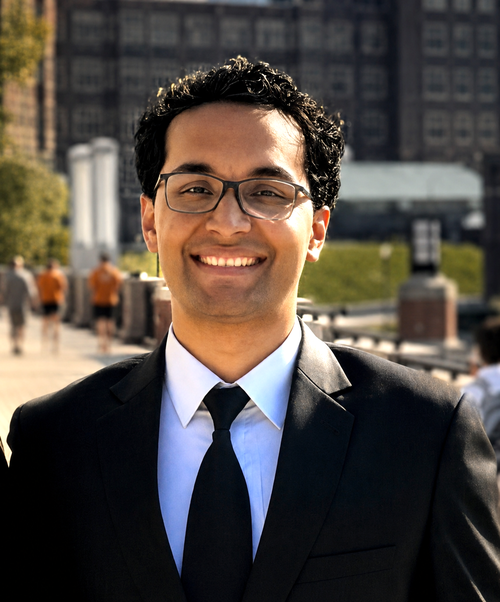
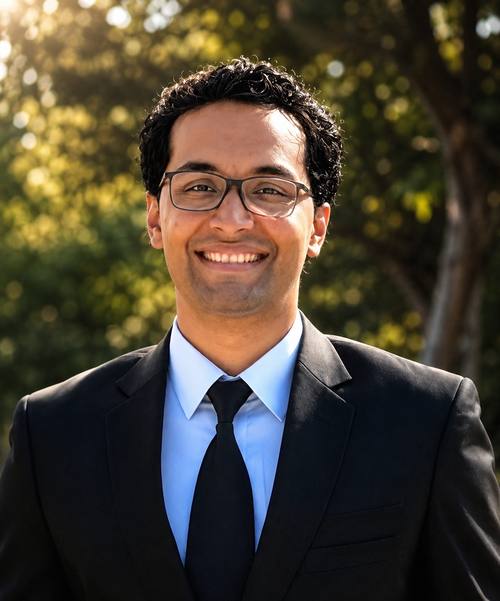
Hero: switch to C.png (v=4)

diff --git a/layouts/partials/home_info.html b/layouts/partials/home_info.html
@@ -1,7 +1,7 @@
 {{- with site.Params.homeInfoParams }}
 <article class="first-entry home-info">
     <div class="entry-header" style="margin-bottom: 20px;">
-        <img src="hero.png?v=3" alt="Bibek Poudel" style="width: 225px; height: auto;">
+        <img src="hero.png?v=4" alt="Bibek Poudel" style="width: 225px; height: auto;">
     </div>
     <header class="entry-header">
         <h1>{{ .Title | markdownify }}</h1>